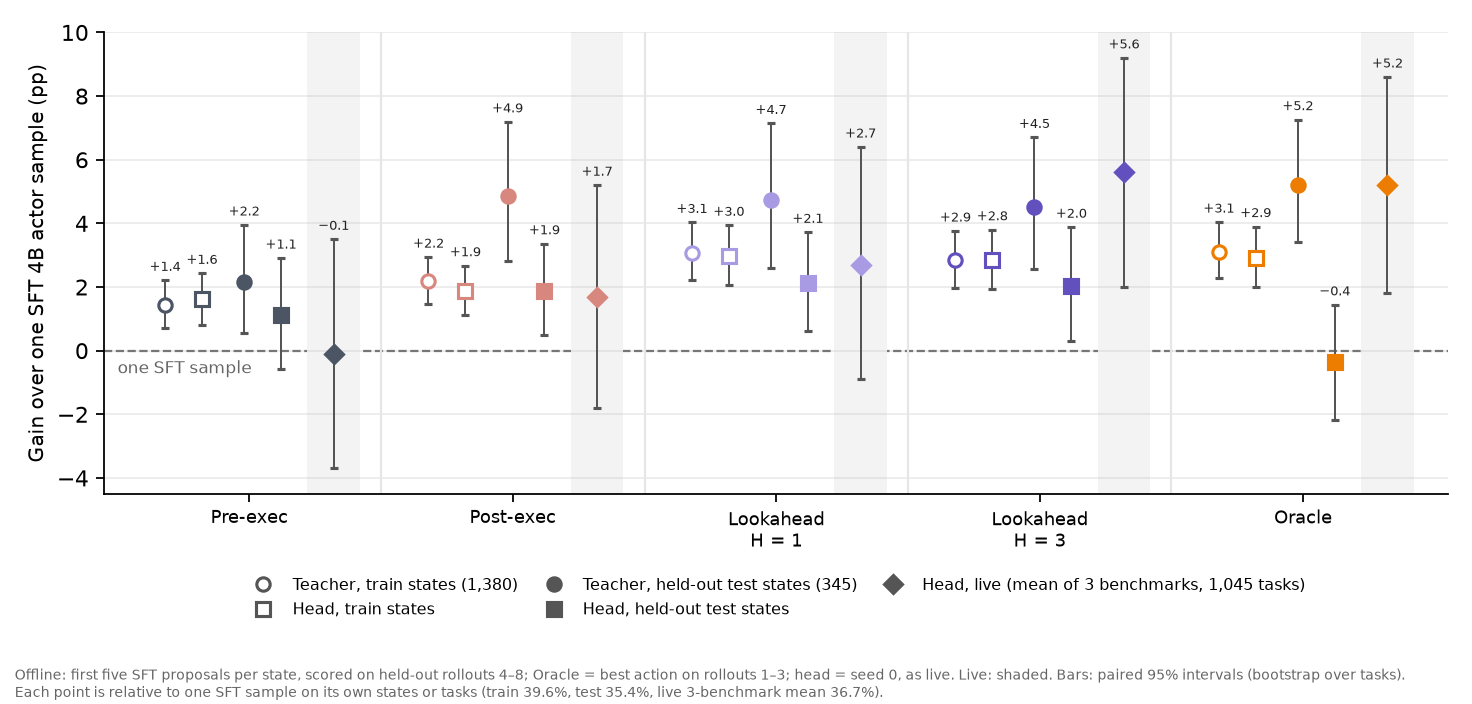
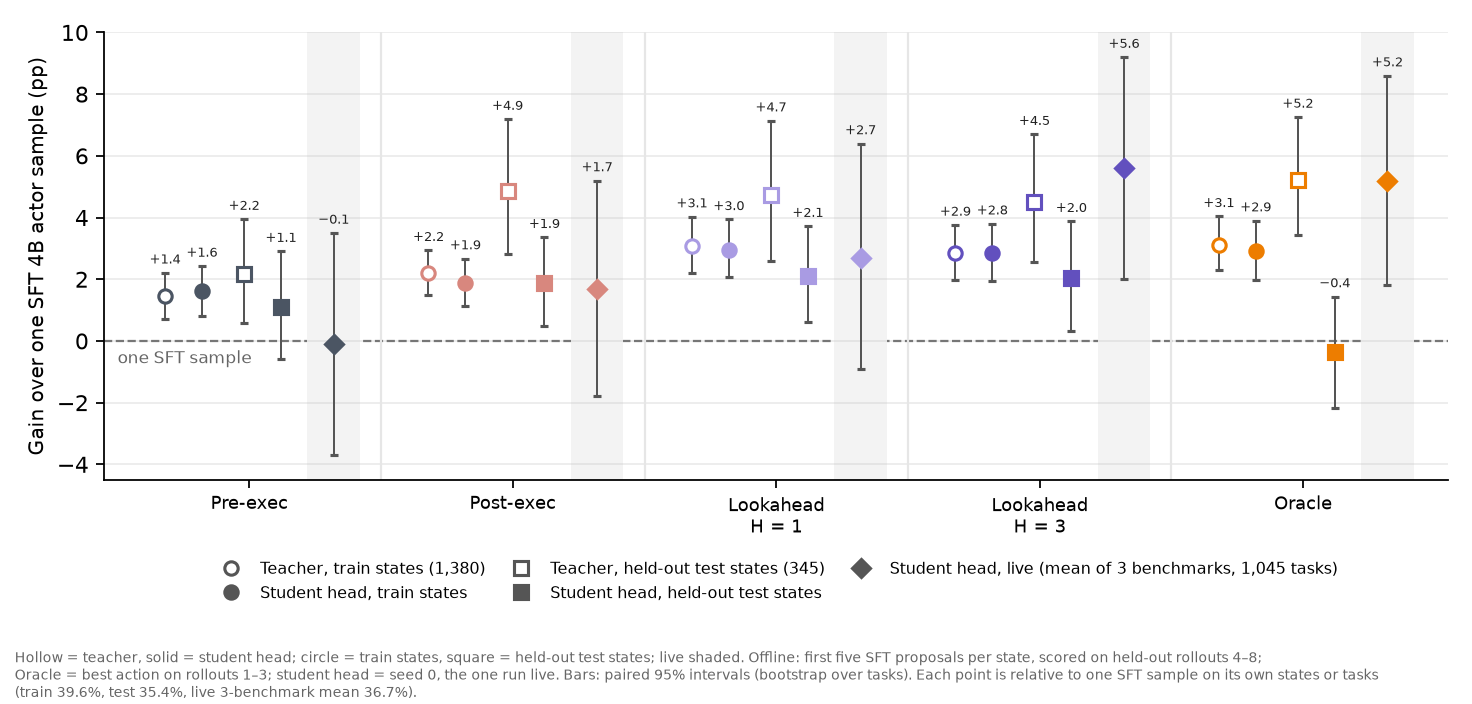
Selection head same-state label plot: hollow = teacher, solid = student; circle = train states, square = test states

diff --git a/openwebrl/docs/arm_results/rl_integration/selection-label-same-state-20261027-plot.py b/openwebrl/docs/arm_results/rl_integration/selection-label-same-state-20261027-plot.py
@@ -33,10 +33,10 @@ ROWS = [  # label, colour, source key, live key
 tr, te = S["splits"]["train"], S["splits"]["test"]
 MARK = [  # legend, marker, filled, dx
     (f"Teacher, train states ({tr['states']:,})", "o", False, -0.32),
-    (f"Head, train states", "s", False, -0.18),
-    (f"Teacher, held-out test states ({te['states']})", "o", True, -0.02),
-    (f"Head, held-out test states", "s", True, 0.12),
-    ("Head, live (mean of 3 benchmarks, 1,045 tasks)", "D", True, 0.32)]
+    (f"Student head, train states", "o", True, -0.18),
+    (f"Teacher, held-out test states ({te['states']})", "s", False, -0.02),
+    (f"Student head, held-out test states", "s", True, 0.12),
+    ("Student head, live (mean of 3 benchmarks, 1,045 tasks)", "D", True, 0.32)]
 
 
 def values(src, live):
@@ -70,9 +70,10 @@ handles = [Line2D([], [], marker=m, ls="", color="#555555", ms=6, markeredgewidt
                   markerfacecolor="#555555" if f else "white") for _, m, f, _ in MARK]
 ax.legend(handles, [l for l, *_ in MARK], frameon=False, fontsize=7.3, loc="upper center", bbox_to_anchor=(0.5, -0.15),
           ncol=3, columnspacing=1.2)
-fig.text(0.01, 0.01, "Offline: first five SFT proposals per state, scored on held-out rollouts 4–8; Oracle = best action on rollouts 1–3; head = seed 0, as live. "
-         "Live: shaded. Bars: paired 95% intervals (bootstrap over tasks).\nEach point is relative to one SFT "
-         f"sample on its own states or tasks (train {S['train']['sft_sample']:.1f}%, test {S['test']['sft_sample']:.1f}%, "
+fig.text(0.01, 0.01, "Hollow = teacher, solid = student head; circle = train states, square = held-out test states; live shaded. "
+         "Offline: first five SFT proposals per state, scored on held-out rollouts 4–8;\nOracle = best action on rollouts 1–3; "
+         "student head = seed 0, the one run live. Bars: paired 95% intervals (bootstrap over tasks). Each point is relative to one SFT "
+         f"sample on its own states or tasks\n(train {S['train']['sft_sample']:.1f}%, test {S['test']['sft_sample']:.1f}%, "
          f"live 3-benchmark mean {LIVE['SFT 4B']['mean_overall']:.1f}%).", fontsize=6.5, color=MUTED)
-fig.tight_layout(rect=(0, 0.06, 1, 1))
+fig.tight_layout(rect=(0, 0.08, 1, 1))
 fig.savefig(HERE / "selection-label-same-state-20261027.png", dpi=160); plt.close(fig)
